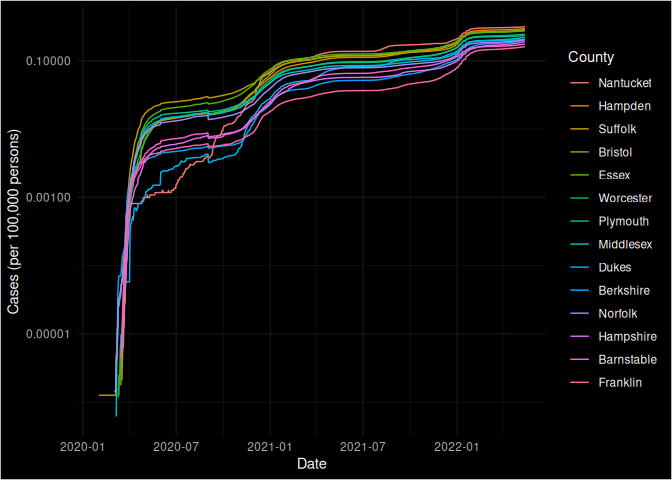
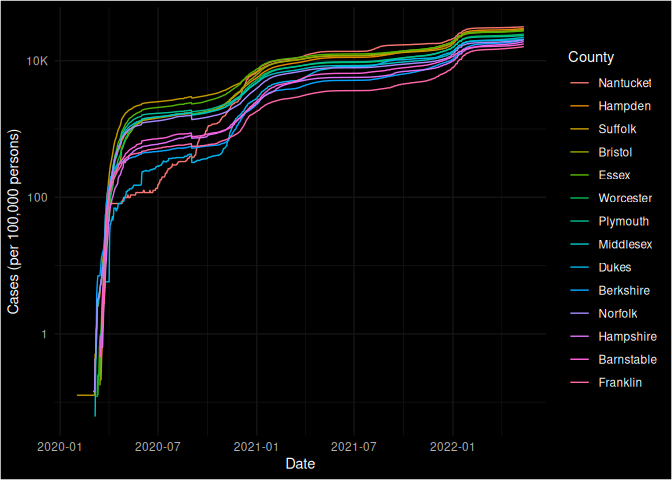
redid c06

diff --git a/challenges/c06-covid19-assignment.md b/challenges/c06-covid19-assignment.md
@@ -93,7 +93,7 @@ library(tidyverse)
 
     ## ── Attaching packages ─────────────────────────────────────── tidyverse 1.3.2 ──
     ## ✔ ggplot2 3.4.0     ✔ purrr   1.0.1
-    ## ✔ tibble  3.1.8     ✔ dplyr   1.1.0
+    ## ✔ tibble  3.2.1     ✔ dplyr   1.1.0
     ## ✔ tidyr   1.3.0     ✔ stringr 1.5.0
     ## ✔ readr   2.1.3     ✔ forcats 1.0.0
     ## ── Conflicts ────────────────────────────────────────── tidyverse_conflicts() ──
@@ -285,15 +285,15 @@ head(df_q3)
 ```
 
     ## # A tibble: 6 × 5
-    ##   id             `Geographic Area Name`  `Estimate!!Total` Margin of Err…¹ fips 
-    ##   <chr>          <chr>                               <dbl>           <dbl> <chr>
-    ## 1 0500000US01001 Autauga County, Alabama             55200              NA 01001
-    ## 2 0500000US01003 Baldwin County, Alabama            208107              NA 01003
-    ## 3 0500000US01005 Barbour County, Alabama             25782              NA 01005
-    ## 4 0500000US01007 Bibb County, Alabama                22527              NA 01007
-    ## 5 0500000US01009 Blount County, Alabama              57645              NA 01009
-    ## 6 0500000US01011 Bullock County, Alabama             10352              NA 01011
-    ## # … with abbreviated variable name ¹`Margin of Error!!Total`
+    ##   id       `Geographic Area Name` `Estimate!!Total` Margin of Error!!Tot…¹ fips 
+    ##   <chr>    <chr>                              <dbl>                  <dbl> <chr>
+    ## 1 0500000… Autauga County, Alaba…             55200                     NA 01001
+    ## 2 0500000… Baldwin County, Alaba…            208107                     NA 01003
+    ## 3 0500000… Barbour County, Alaba…             25782                     NA 01005
+    ## 4 0500000… Bibb County, Alabama               22527                     NA 01007
+    ## 5 0500000… Blount County, Alabama             57645                     NA 01009
+    ## 6 0500000… Bullock County, Alaba…             10352                     NA 01011
+    ## # ℹ abbreviated name: ¹`Margin of Error!!Total`
 
 Use the following test to check your answer.
 
@@ -359,8 +359,8 @@ data.
 ## TASK: Normalize cases and deaths
 df_normalized <-
   df_data %>% 
-  mutate(cases_per100k = cases/population) %>% 
-  mutate(deaths_per100k = deaths/population)
+  mutate(cases_per100k = cases/population * 100000) %>% 
+  mutate(deaths_per100k = deaths/population * 100000)
 ```
 
 You may use the following test to check your work.
@@ -389,7 +389,7 @@ assertthat::assert_that(
                  str_detect(county, "Snohomish"),
                  date == "2020-01-21"
                ) %>%
-              pull(cases_per100k) - 0.127e-6) < 1e-3 # I think this number was missing scientific notation. I took a long look at it and just editted the assert. :)
+              pull(cases_per100k) - 0.127) < 1e-3
             )
 ```
 
@@ -425,11 +425,17 @@ Before turning you loose, let’s complete a couple guided EDA tasks.
 ``` r
 ## TASK: Compute mean and sd for cases_per100k and deaths_per100k
 df_normalized %>% 
-  summarise(mean_cases_per100k = mean(cases_per100k), sd_cases_per100k = sd(cases_per100k), mean_deaths_per100k = mean(deaths_per100k, na.rm = TRUE), sd_deaths_per100k = sd(deaths_per100k, na.rm = TRUE))
+  filter(state == "California") %>% 
+  summarise(
+    mean_cases_per100k = mean(cases_per100k), 
+    sd_cases_per100k = sd(cases_per100k), 
+    mean_deaths_per100k = mean(deaths_per100k, na.rm = TRUE), 
+    sd_deaths_per100k = sd(deaths_per100k, na.rm = TRUE)
+  )
 ```
 
     ##   mean_cases_per100k sd_cases_per100k mean_deaths_per100k sd_deaths_per100k
-    ## 1         0.09974675       0.08448659         0.001743095       0.001589641
+    ## 1           8038.086          7446.57            88.75351          87.51272
 
 ### **q7** Find the top 10 counties in terms of `cases_per100k`, and the top 10 in terms of `deaths_per100k`. Report the population of each county along with the per-100,000 counts. Compare the counts against the mean values you found in q6. Note any observations.
 
@@ -438,14 +444,14 @@ df_normalized %>%
 df_top10_cases <- 
   df_normalized %>% 
   group_by(county) %>% 
-  summarise(across(c(cases_per100k, population), mean)) %>% 
+  summarise(across(c(cases_per100k, population), max)) %>% 
   arrange(desc(cases_per100k)) %>% 
   slice(0:10)
 ## TASK: Find the top 10 deaths_per100k counties; report populations as well
 df_top10_deaths <- 
   df_normalized %>% 
   group_by(county) %>% 
-  summarise(across(c(deaths_per100k, population), mean)) %>% 
+  summarise(across(c(deaths_per100k, population), max)) %>% 
   arrange(desc(deaths_per100k)) %>% 
   slice(0:10)
 
@@ -453,42 +459,42 @@ df_top10_cases
 ```
 
     ## # A tibble: 10 × 3
-    ##    county               cases_per100k population
-    ##    <chr>                        <dbl>      <dbl>
-    ##  1 Loving                       0.382        102
-    ##  2 Chattahoochee                0.339      10767
-    ##  3 Crowley                      0.290       5630
-    ##  4 Trousdale                    0.259       9573
-    ##  5 Bent                         0.214       5809
-    ##  6 Dimmit                       0.213      10663
-    ##  7 Bethel Census Area           0.212      18040
-    ##  8 Norton                       0.203       5486
-    ##  9 Kusilvak Census Area         0.192       8198
-    ## 10 Buena Vista                  0.188      20260
+    ##    county                   cases_per100k population
+    ##    <chr>                            <dbl>      <dbl>
+    ##  1 Loving                         192157.        102
+    ##  2 Chattahoochee                   69527.      10767
+    ##  3 Nome Census Area                62922.       9925
+    ##  4 Northwest Arctic Borough        62542.       7734
+    ##  5 Crowley                         59449.       5630
+    ##  6 Bethel Census Area              57439.      18040
+    ##  7 Dewey                           54317.       5779
+    ##  8 Dimmit                          54019.      10663
+    ##  9 Jim Hogg                        50133.       5282
+    ## 10 Kusilvak Census Area            49817.       8198
 
 ``` r
 df_top10_deaths
 ```
 
     ## # A tibble: 10 × 3
-    ##    county         deaths_per100k population
-    ##    <chr>                   <dbl>      <dbl>
-    ##  1 McMullen              0.00729        662
-    ##  2 Galax city            0.00666       6638
-    ##  3 Emporia city          0.00633       5381
-    ##  4 Jerauld               0.00631       2029
-    ##  5 Gove                  0.00595       2619
-    ##  6 Gregory               0.00558       4201
-    ##  7 Dickey                0.00535       4970
-    ##  8 Foard                 0.00527       1408
-    ##  9 McKinley              0.00527      72849
-    ## 10 East Feliciana        0.00523      19499
+    ##    county            deaths_per100k population
+    ##    <chr>                      <dbl>      <dbl>
+    ##  1 McMullen                   1360.        662
+    ##  2 Galax city                 1175.       6638
+    ##  3 Motley                     1125.       1156
+    ##  4 Hancock                    1054.      75690
+    ##  5 Emporia city               1022.       5381
+    ##  6 Towns                      1016.      11417
+    ##  7 Jerauld                     986.       2029
+    ##  8 Loving                      980.        102
+    ##  9 Robertson                   980.      69344
+    ## 10 Martinsville city           946.      13101
 
 **Observations**:
 
 - Loving looks like it has more cases than people
-- All of these places have small population sizes (less than 25,000)
-  except McKinley.
+- All of these places have small population sizes (less than 15000)
+  except Robertson, Hancock and Towns.
 - All of these are over the mean value, which makes sense
 - All of these are more than one sd from the mean
 
@@ -537,6 +543,9 @@ df_normalized %>%
 
     ## Warning: The `<scale>` argument of `guides()` cannot be `FALSE`. Use "none" instead as
     ## of ggplot2 3.3.4.
+    ## This warning is displayed once every 8 hours.
+    ## Call `lifecycle::last_lifecycle_warnings()` to see where this warning was
+    ## generated.
 
 ![](c06-covid19-assignment_files/figure-gfm/q8-task-1.png)<!-- -->
 
@@ -548,6 +557,21 @@ df_top_5_cases <-
   arrange(desc(cases)) %>% 
   slice(0:5)
 
+df_normalized %>% 
+  group_by(county, state) %>% 
+  summarise(cases = mean(cases_per100k), population = mean(population)) %>% 
+  ggplot(aes(cases, population)) +
+  geom_point(aes(color = state)) +
+  dark_theme_minimal() +
+  guides(color = FALSE)
+```
+
+    ## `summarise()` has grouped output by 'county'. You can override using the
+    ## `.groups` argument.
+
+![](c06-covid19-assignment_files/figure-gfm/q8-task-2-1.png)<!-- -->
+
+``` r
 df_normalized %>% 
   group_by(county, state) %>% 
   summarise(across(c(cases, population), mean)) %>% 
@@ -569,7 +593,7 @@ df_normalized %>%
     ## `.groups` argument.
     ## `geom_smooth()` using formula = 'y ~ x'
 
-![](c06-covid19-assignment_files/figure-gfm/q8-task-2-1.png)<!-- -->
+![](c06-covid19-assignment_files/figure-gfm/q8-task-2-2.png)<!-- -->
 
 ``` r
 cor(df_normalized$cases, df_normalized$population)
@@ -594,6 +618,9 @@ df_normalized %>%
 
     ## Warning: `label_number_si()` was deprecated in scales 1.2.0.
     ## ℹ Please use the `scale_cut` argument of `label_number()` instead.
+    ## This warning is displayed once every 8 hours.
+    ## Call `lifecycle::last_lifecycle_warnings()` to see where this warning was
+    ## generated.
 
 ![](c06-covid19-assignment_files/figure-gfm/q8-task-3-1.png)<!-- -->
 
@@ -628,33 +655,20 @@ df_lowest10_cases
     ## # A tibble: 10 × 3
     ##    county        cases_per100k population
     ##    <chr>                 <dbl>      <dbl>
-    ##  1 Kalawao              0.0133         75
-    ##  2 Guanica              0.0272      16783
-    ##  3 Fairfax city         0.0282      23865
-    ##  4 Storey               0.0294       3941
-    ##  5 Vieques              0.0297       8771
-    ##  6 Maricao              0.0309       6202
-    ##  7 Sabana Grande        0.0319      23054
-    ##  8 Kauai                0.0322      71377
-    ##  9 Arroyo               0.0329      18111
-    ## 10 Lajas                0.0335      23315
+    ##  1 Kalawao               1333.         75
+    ##  2 Guanica               2723.      16783
+    ##  3 Fairfax city          2819.      23865
+    ##  4 Storey                2943.       3941
+    ##  5 Vieques               2974.       8771
+    ##  6 Maricao               3087.       6202
+    ##  7 Sabana Grande         3190.      23054
+    ##  8 Kauai                 3223.      71377
+    ##  9 Arroyo                3292.      18111
+    ## 10 Lajas                 3348.      23315
 
 ### Observations
 
-- Population is correlated to number of cases.
-
-- This makes sense because smaller communities probably have more
-  interaction and there are less smaller pods of people who can isolate
-  from each other (modsim memories).
-
-- This is also proven by the counties with the highest cases per capita
-  all having smaller population sized (the top 5 have populations of
-  around 1000 or less).
-
-- This is also true in terms of counties with low cases. If communities
-  can successfully prevent an infected person from entering, they can
-  keep case numbers low. This is easier to do with smaller counties
-  because there are less people interacting with people on the outside.
+- Normalized population is correlated to number of cases.
 
 - A notable exception to what was just stated is Kauai county. It is
   relatively large and has very low case per capita numbers. The
@@ -662,8 +676,9 @@ df_lowest10_cases
   counties in terms of cases per capita list of note include Kalawao
   (Hawii) and Guanica, Maricao, Sabana Grande, Lajas, and Vieques
   counties. (all in Puerto Rico). All of the counties are on islands. It
-  makes sense that their case numbers were low because of how effectivly
-  they were able to restrict travel during the height of the pandemic.
+  makes sense that their case numbers were low because of how
+  effectively they were able to restrict travel during the height of the
+  pandemic.
 
 - Loving county in Texas has reported more cases than there are people
   🤔. If makes me think that some county clerk read a number wrong from
